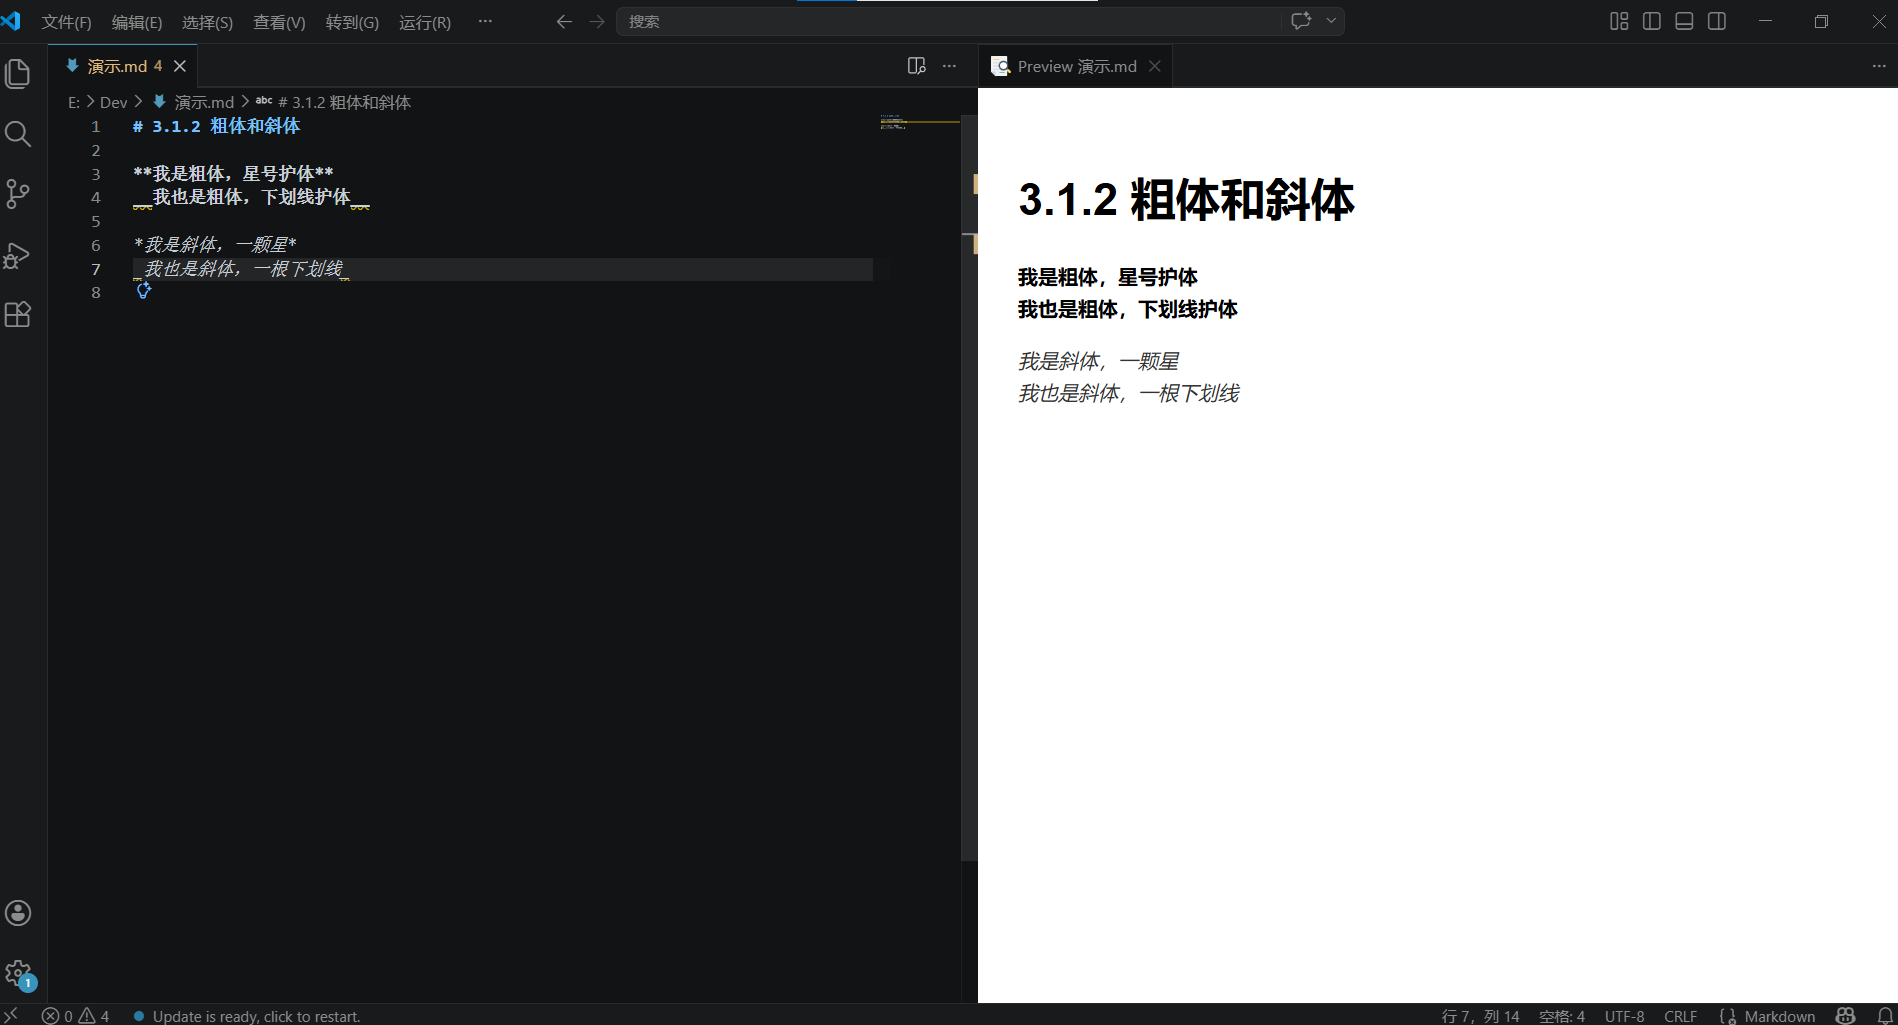
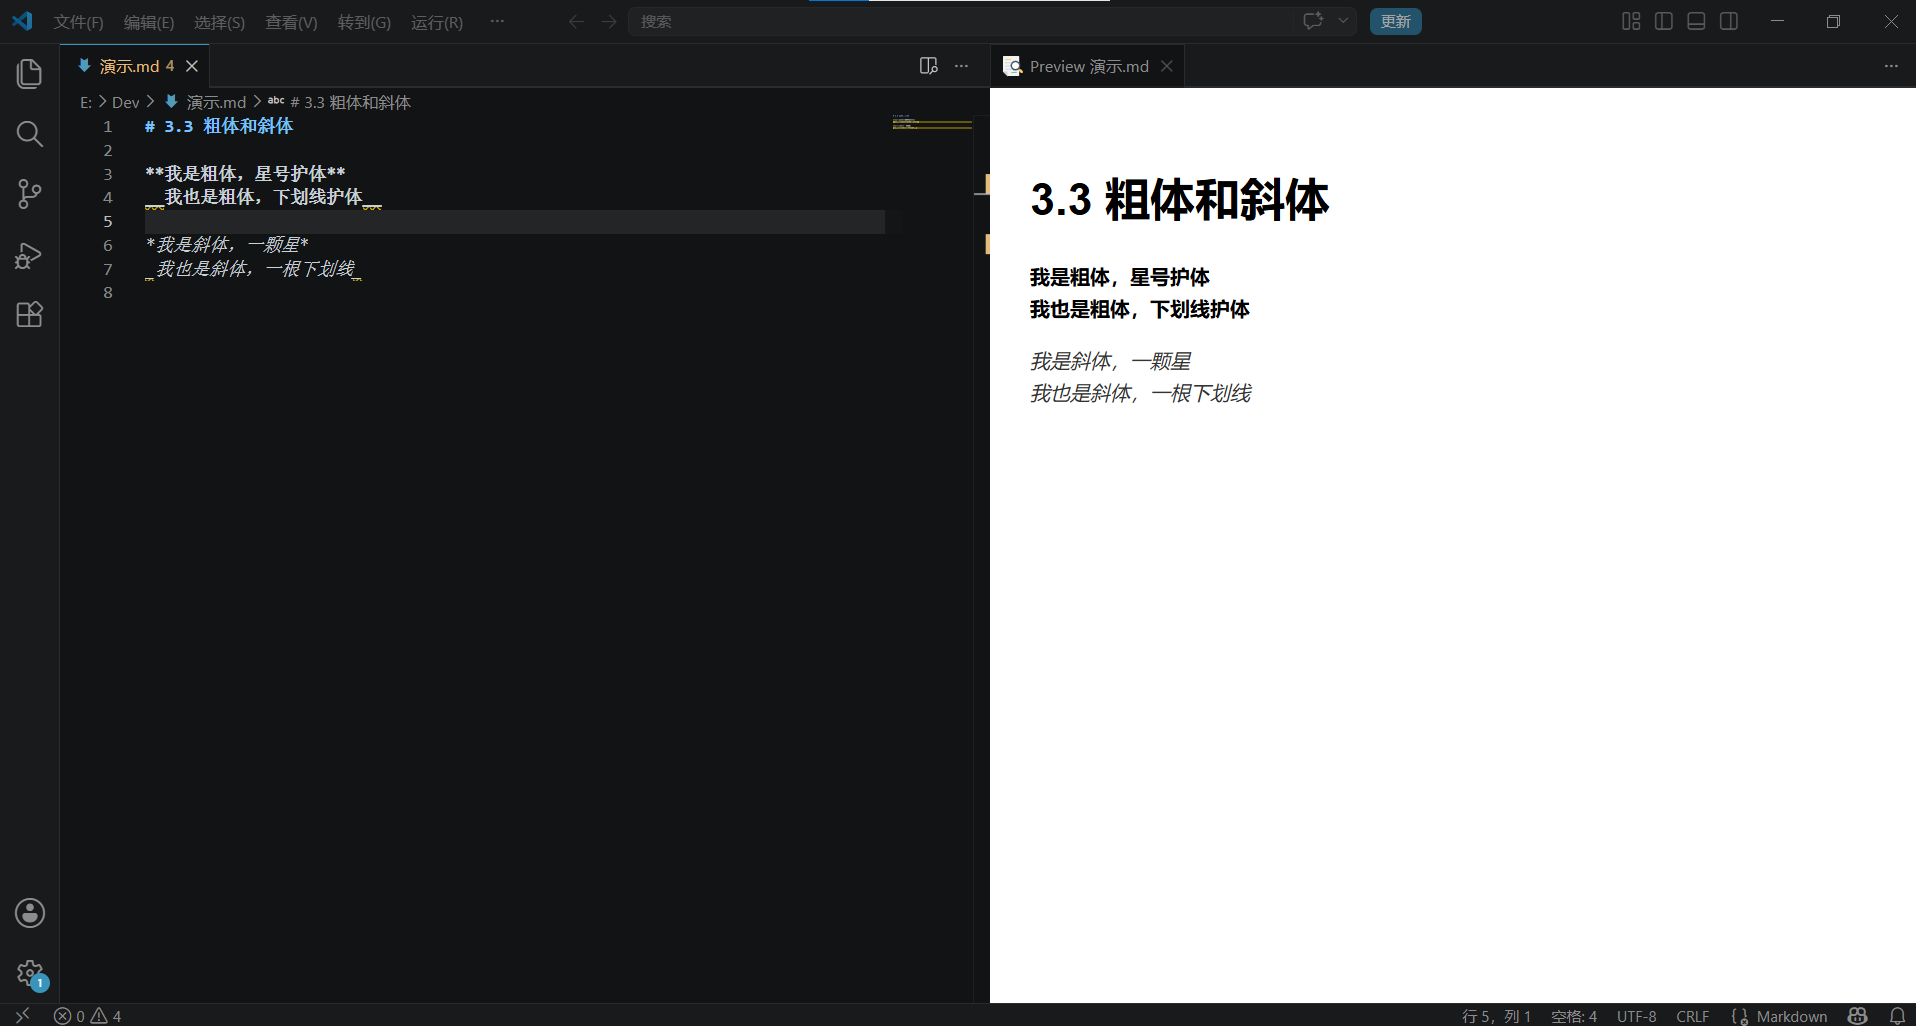
Finish zh-01-4.1

diff --git a/README.md b/README.md
@@ -151,7 +151,20 @@ flowchart LR
 - **我们相信**：从零开始，一起进步
 - **我们不做**：非法攻击、盈利、暴露成员身份
 
-**守夜者宣言**：长夜将至，我从今开始守夜，今夜如此，夜夜皆然。
+> **守夜者宣言**：
+> 长夜将至，我从今开始守望，至死方休。  
+> 我将不设名利、不占资源、不留痕迹。  
+> 我将不执权柄，不逐荣光。  
+> 我将生死于城上，进退于暗网。  
+>
+> 我是黑暗中的指令。  
+> 我是城墙上的守望者。  
+> 我是抵御入侵的防火墙，  
+> 是唤醒沉睡者的警报，  
+> 是守卫数据疆域的盾。  
+>
+> 我将生命与荣耀，献给守夜者。  
+> 今夜如此，夜夜皆然。  
 
 ---
 
@@ -295,7 +308,22 @@ I am a member of the Night Keepers, a tech learning community.
 - **We believe**: Start from zero. Progress together.
 - **We do not engage in**: Illegal attacks, profit-making, or exposing members' identities.
 
-**The Night Keeper's Oath**: *Night gathers, and now my watch begins. This night, and all nights to come.*
+> **The Keeper‘s Oath**  
+> Night falls, and now my watch begins.  
+> It shall not end until my system halts.  
+> I shall claim no credit, hold no data, father no exploits.  
+> I shall wear no crown of fame, and win no applause.  
+> I shall live and die at my terminal.  
+>
+> I am the script in the darkness.  
+> I am the watcher on the firewall.  
+> I am the code that burns against the breach,  
+> the log that brings the dawn,  
+> the alert that wakes the sleepers,  
+> the shell that guards the realms of data.  
+>
+> I pledge my life and honor to the Keepers of the Night,  
+> for this night and all the nights to come.  
 
 ---
 
